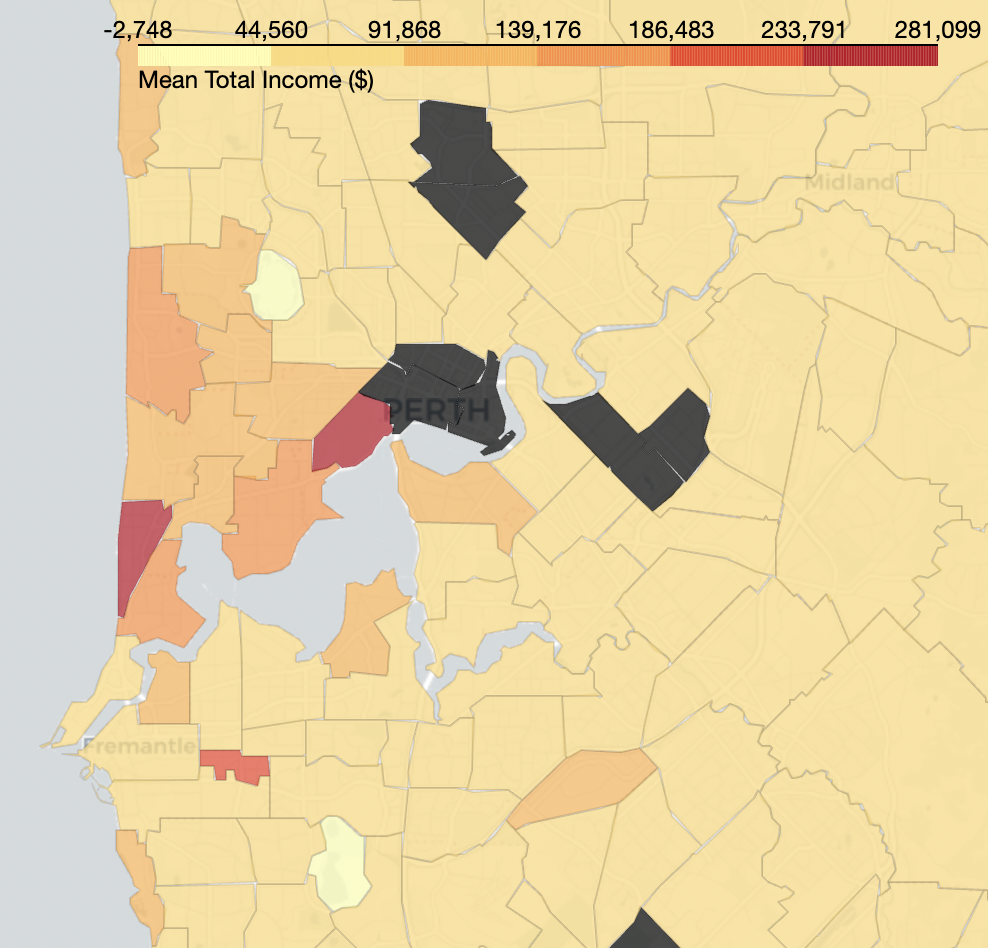
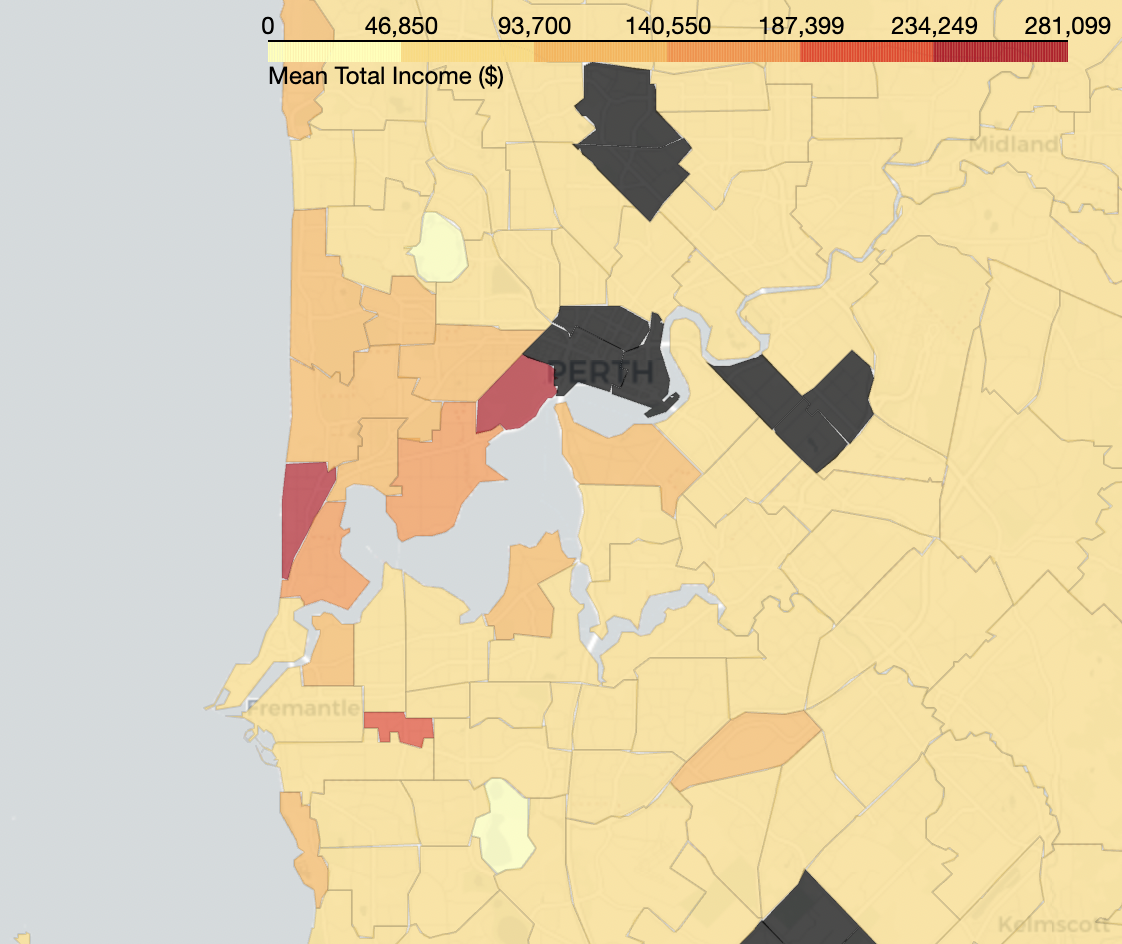
fix negative income value

diff --git a/scripts/process_external_data.py b/scripts/process_external_data.py
@@ -64,7 +64,7 @@ def preprocess_income():
     state_income.set_axis(['state', 'mean_total_income'], axis=1, inplace=True)
     state_income.to_csv(output_path + "state_mean_income.csv", index=False)
 
-    # TODO: need more comments HERE
+    # extract mean income of each SA2 region
     df.columns = df.iloc[5].values.flatten().tolist()
     df = df.drop(df.index[0:6], inplace=False).reset_index(drop=True)
     df = (df.iloc[:, [0, 26]])
@@ -73,7 +73,7 @@ def preprocess_income():
 
     # temporarily replace missing values with 0
     df.replace({'mean_total_income': {'np': 0}}, inplace=True)
-    # ignore state mean income 
+    df['mean_total_income'] = df['mean_total_income'].clip(lower=0)
     df = df.dropna().reset_index(drop = True)
 
     # save the processed data
